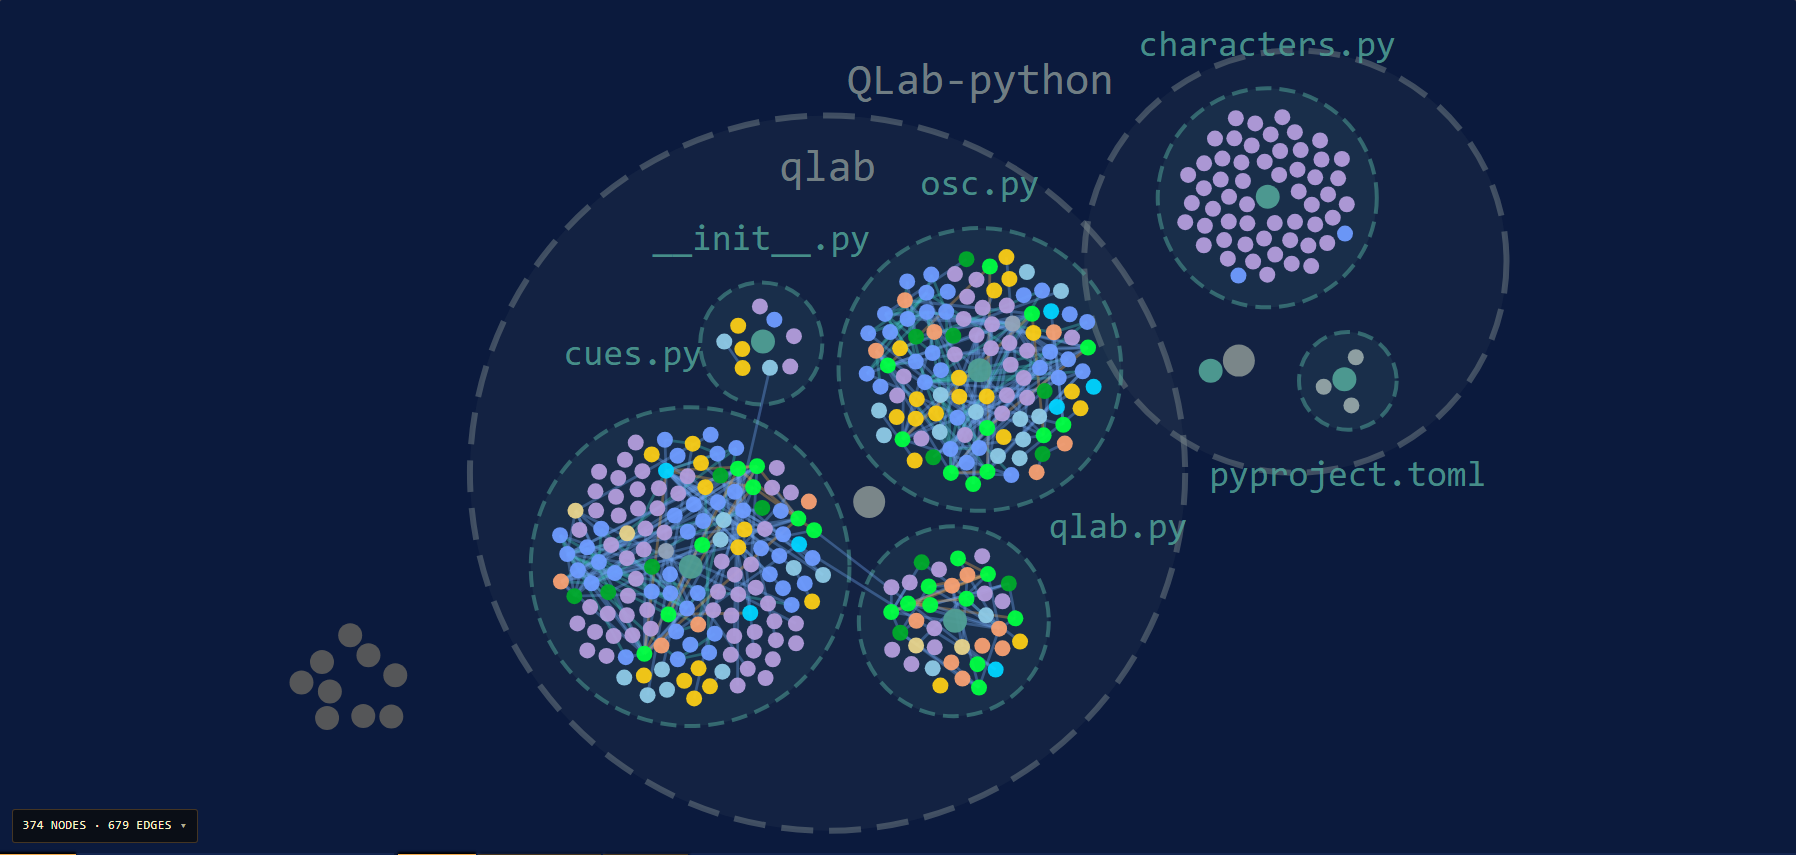
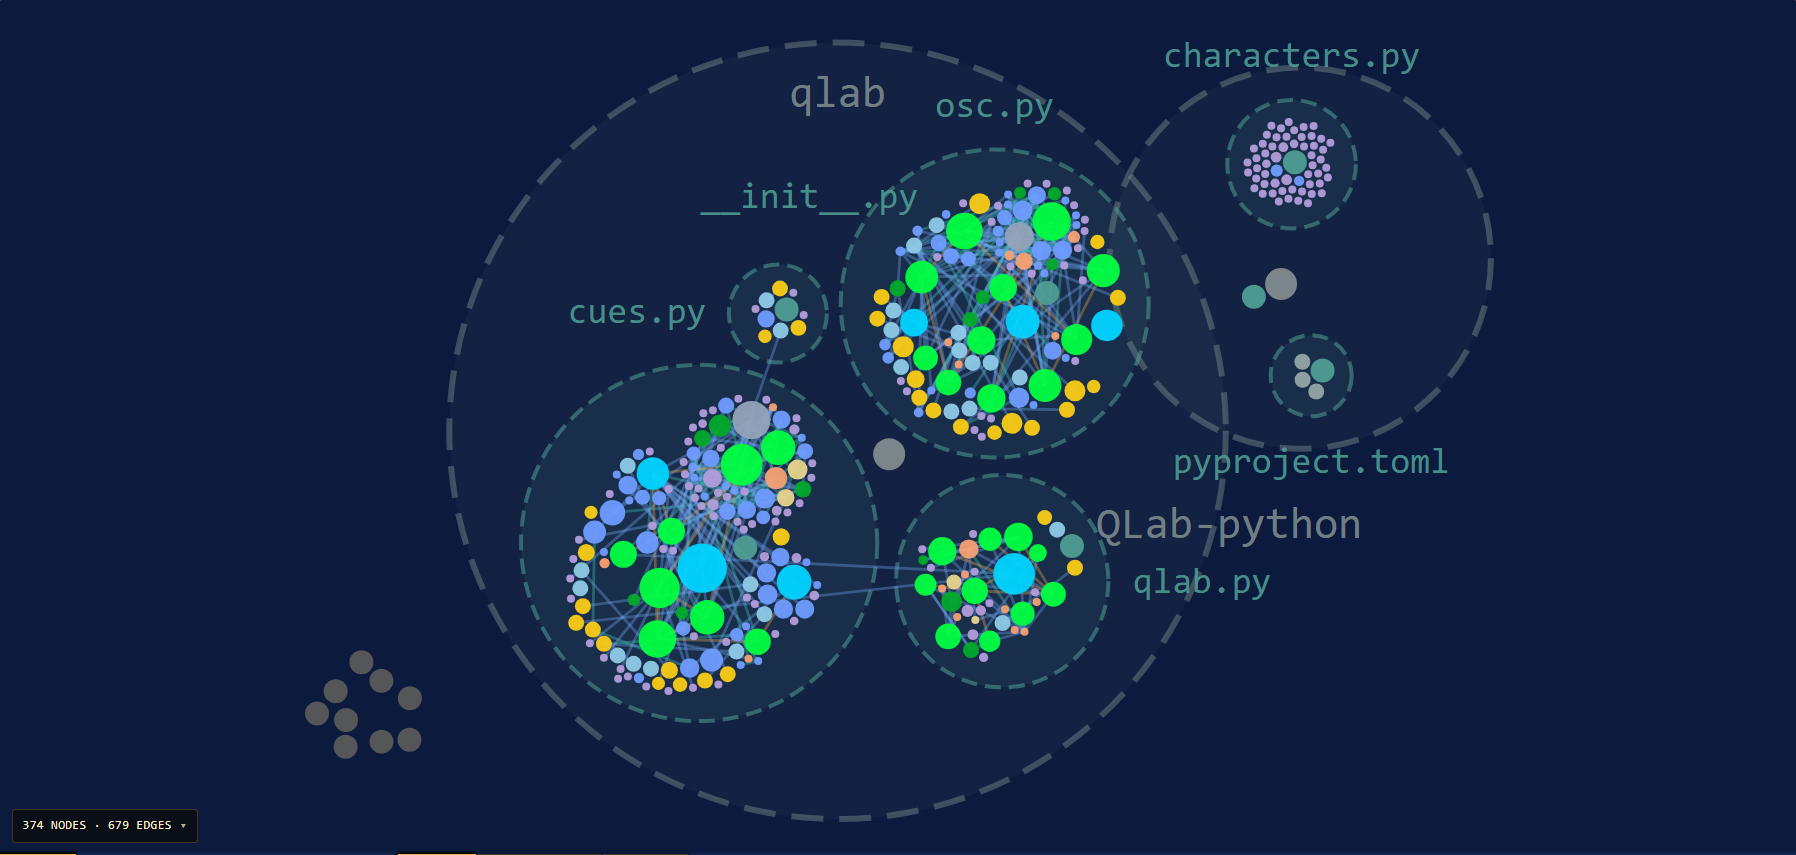
Say how a Showcase sizes its dots and packs its glyphs, and show it
docs/architecture.md: a dot's size by its source, each function and class a
glyph packed alike, why only they nest, and the parsers folder measured again.
docs/ui.md lists Size by Code; docs/api.md gives showcase_layout's `sized`.
The after pictures and the settings are drawn again from this branch.

diff --git a/docs/architecture.md b/docs/architecture.md
@@ -199,7 +199,10 @@ to a function or class of its module it calls, `self.` and `cls.` methods
 included; `uses`, from a function to a name it reads that another holds, a
 module's constant say; and, parsed at depth 3, `flows`, from each variable a
 value is computed from to the variable it is assigned to. These are what the
-[Showcase](#showcase-layout) draws between its dots.
+[Showcase](#showcase-layout) draws between its dots. Each node carries
+`meta.chars`, the most source any one place it stands for spans: a
+definition's whole body, a variable's largest statement assigning it,
+otherwise the expression it was met in.
 
 ## Data Flow
 
@@ -391,17 +394,23 @@ directories seven.
 parse to show what a repository holds, not only how it is filed. Its places are
 `show_layout.showcase`'s: `code_map`, sized and spaced as a Showcase.
 
-1. **Every node is a dot**, a member's of radius `dot`, a file's half again as
-   wide and a directory's twice (`SHOWCASE_SCALE`), each `gap` clear of the
-   next. The canvas draws each at the same size (`showcase.ts`'s `DOT_SCALE`,
-   which a test holds equal).
-2. **A file is one evenly full disc of its code** (`_patches`), as many dots
-   as it holds: its functions, classes and imports and, parsed to depth 3,
-   their variables, arguments and calls. Each symbol's members are given a run
-   of the disc along a Hilbert curve, so they lie in a patch beside it
-   (`nest`); with `nest` off they take the sunflower's own order, mixed
-   through the disc. Laid out as the Map lays out a directory -- a disc round
-   each symbol -- a file was a sparse constellation of discs.
+1. **Every node is a dot, as large as its source.** A symbol's or a member's
+   radius is `dot` times `chars_scale` of the characters of source it stands
+   for (`meta.chars`): half a dot up to ten characters, one more for each ten
+   times as many, at most four (`sized`). A file's is half again a dot and a
+   directory's twice (`SHOWCASE_SCALE`), their discs saying what they hold.
+   The server sets each node's `dot_scale` and the canvas draws it at that.
+2. **Each function and class is a glyph**: all it holds packed tight round
+   it (`_glyph`, `circle_pack`, a port of d3's sibling packing), largest
+   first, then kind by kind. The order depends on nothing but what each dot
+   is, so two functions that hold alike are drawn alike wherever they are.
+   A file packs its glyphs and the rest of its code round it the same way
+   (`nest`); with `nest` off it packs all of its code flat. Only a function
+   or a class nests (`_by_symbol`): each level a glyph nests is a circle round
+   circles and the gaps between them, and nested at every level the walker
+   holds by, a file was a quarter dots. Its code given places along a Hilbert
+   curve through one disc, the Showcase's first layout, each function was a
+   run of the curve, shaped by where it fell.
 3. **An outline is a few dots past what it holds**: a file's half
    `SHOWCASE_PAD` dots, a directory's all of it, and the canvas pads each by
    the same (`showcasePadding`). The Map's 40 units were twenty dots.
@@ -410,22 +419,23 @@ parse to show what a repository holds, not only how it is filed. Its places are
    canvas gives a node nothing holds to the directory nearest it, but not an
    `external_module`.
 
-The settings ride on the layout's name, `Showcase(dot=2,gap=0.5,nest=true)`.
+The settings ride on the layout's name,
+`Showcase(dot=2,gap=0.5,nest=true,sized=true)`.
 `position_service.layout_spec` reads them, `get_node_positions` hands each to a
 layout that declares it and refuses one it does not, and `layout_key` keeps
 them, sorted, on the name `GraphSerializer` lays the graph out by. A cached
 parse is keyed by the layout as it was asked for, settings and all. The window
 builds the name from Graph Settings (`layout_names.layoutSpec`) and asks again
-when `dot`, `gap` or `nest` changes; which links are drawn, how strongly, and
+when `dot`, `gap`, `nest` or `sized` changes; which links are drawn, how strongly, and
 whether a dot is named, the canvas changes in place. A member the canvas would
 draw grey -- a name, a constant, an argument -- is given its kind's hue
 (`MEMBER_COLOURS`), and each link its kind's colour (`LINK_COLOURS`), none a
 pink or a red.
 
-The parsers folder of this repository, parsed at depth 3, is 1,984 nodes. The
-Map lays it out 6,731 units by 4,249, and the Showcase at its defaults 379 by
-299: each of its files a disc of coloured dots, with 174 calls, 1,726 uses and
-1,038 flows between them.
+The parsers folder of this repository, parsed at depth 3, is 2,008 nodes. The
+Map lays it out 6,987 units by 4,323, and the Showcase at its defaults 449 by
+394: each of its files a disc about two fifths dots, its largest a class of 3.9
+dots, with 177 calls, 1,744 uses and 1,052 flows between them.
 
 ## Compound layout
 

diff --git a/docs/ui.md b/docs/ui.md
@@ -376,12 +376,14 @@ Id `graph-settings-panel`. In the default arrangement.
   repository ([Map layout](architecture.md#map-layout)), and a showgraph's code
   map opens in it. *Showcase* lays the graph out as the Map does, but every node
   is a dot, and below the files every function, class, variable and call is one,
-  packed tight round what holds it, each coloured by its kind; the links the
-  parse found between them are drawn over the dots ([Showcase
-  layout](architecture.md#showcase-layout)). While it is chosen, its settings
-  are listed beneath it. *Dot Size*, *Dot Spacing* and *Cluster by Symbol* lay
-  the graph out again: a symbol's members in a patch beside it, or, off, mixed
-  through their file's disc. *Links: calls*, *uses*, *flows* and *imports* (a
+  as large as the source it stands for, packed tight round what holds it, each
+  coloured by its kind; the links the parse found between them are drawn over
+  the dots ([Showcase layout](architecture.md#showcase-layout)). While it is
+  chosen, its settings are listed beneath it. *Dot Size*, *Dot Spacing*,
+  *Cluster by Symbol* and *Size by Code* lay the graph out again: each function
+  and class a glyph of what it holds, packed the same way wherever it is, or,
+  off, a file's code packed flat; and each dot as large as its source, or, off,
+  every member one dot. *Links: calls*, *uses*, *flows* and *imports* (a
   file's imports and every other link between files, off at first), *Link
   Opacity* and *Dot Names* are drawn in place. Parsed at depth 3 (*Deep*), a
   function's variables and the flows between them are drawn; at 2, its functions

diff --git a/docs/api.md b/docs/api.md
@@ -119,7 +119,7 @@ it.
 | `spring_layout` | Force-directed (default) |
 | `compound_layout` | Hierarchical: dirs → files → symbols in nested orbits |
 | `map_layout` | Each directory a disc of its files, its subdirectories packed around it; nodes carry `label_at` |
-| `showcase_layout` | The Map's directories and files, every node a dot and each file one disc of its code; takes `dot`, `gap` and `nest` |
+| `showcase_layout` | The Map's directories and files, every node a dot as large as its source, each function and class a glyph of what it holds; takes `dot`, `gap`, `nest` and `sized` |
 | `circular_layout` | Nodes on a circle |
 | `kamada_kawai_layout` | Energy-minimized spring |
 | `spectral_layout` | Graph Laplacian eigenvectors |
